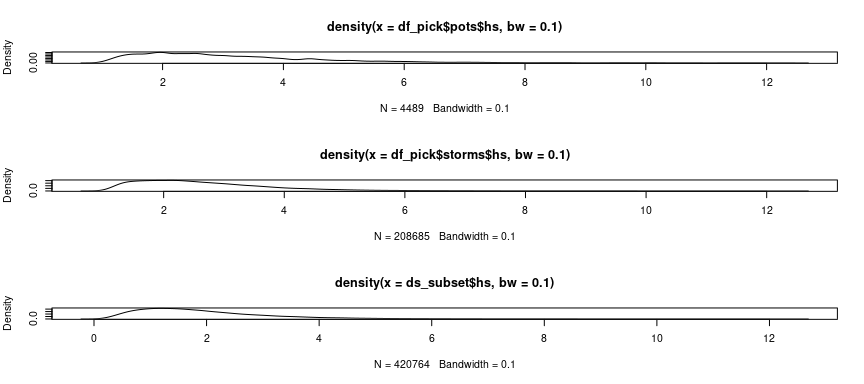
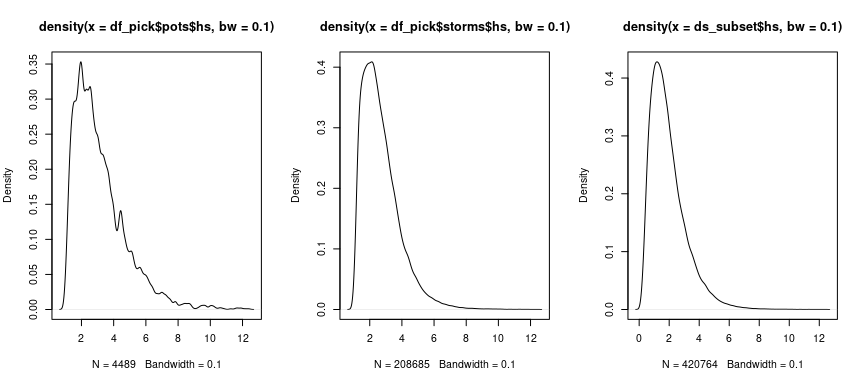
updated README

diff --git a/README.md b/README.md
@@ -66,7 +66,7 @@ visualize_storm_picking(dfin = df_pick, dfinall = ds,
 ## Plot the Hs density
 
 ``` r
-par(mfrow = c(3, 1))
+par(mfrow = c(1, 3))
 plot(density(df_pick$pots$hs, bw=.1))
 plot(density(df_pick$storms$hs, bw=.1))
 plot(density(ds_subset$hs, bw=.1))
